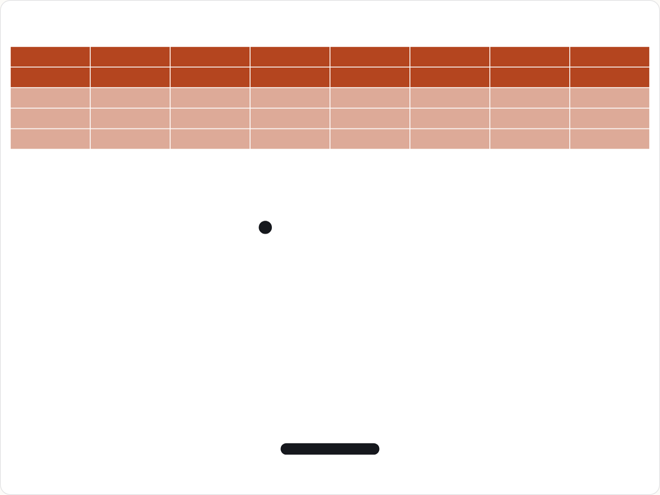
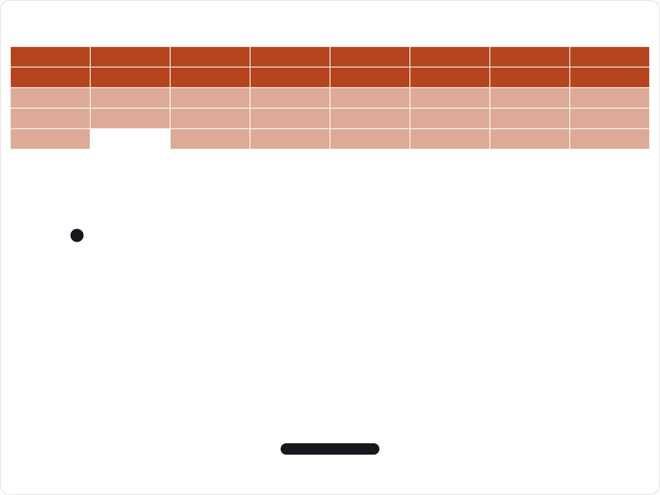
Fix add-a-game comment to 4:3 and use a mid-play Breakout thumbnail

Changed region(s): [[0.1212, 0.2424, 0.2727, 0.303], [0.3939, 0.4242, 0.4242, 0.4848], [0.0909, 0.4545, 0.1515, 0.4848]]

diff --git a/index.html b/index.html
@@ -46,7 +46,8 @@
       </a>
 
       <!-- To add a game: copy a card above, point it at games/&lt;name&gt;/index.html,
-           drop a 16:10 screenshot at assets/img/&lt;name&gt;.png, and update the meta line. -->
+           shoot a 4:3 screenshot of the game into assets/img/&lt;name&gt;.png (660x495),
+           and update the meta line. -->
 
     </div>
   </section>
